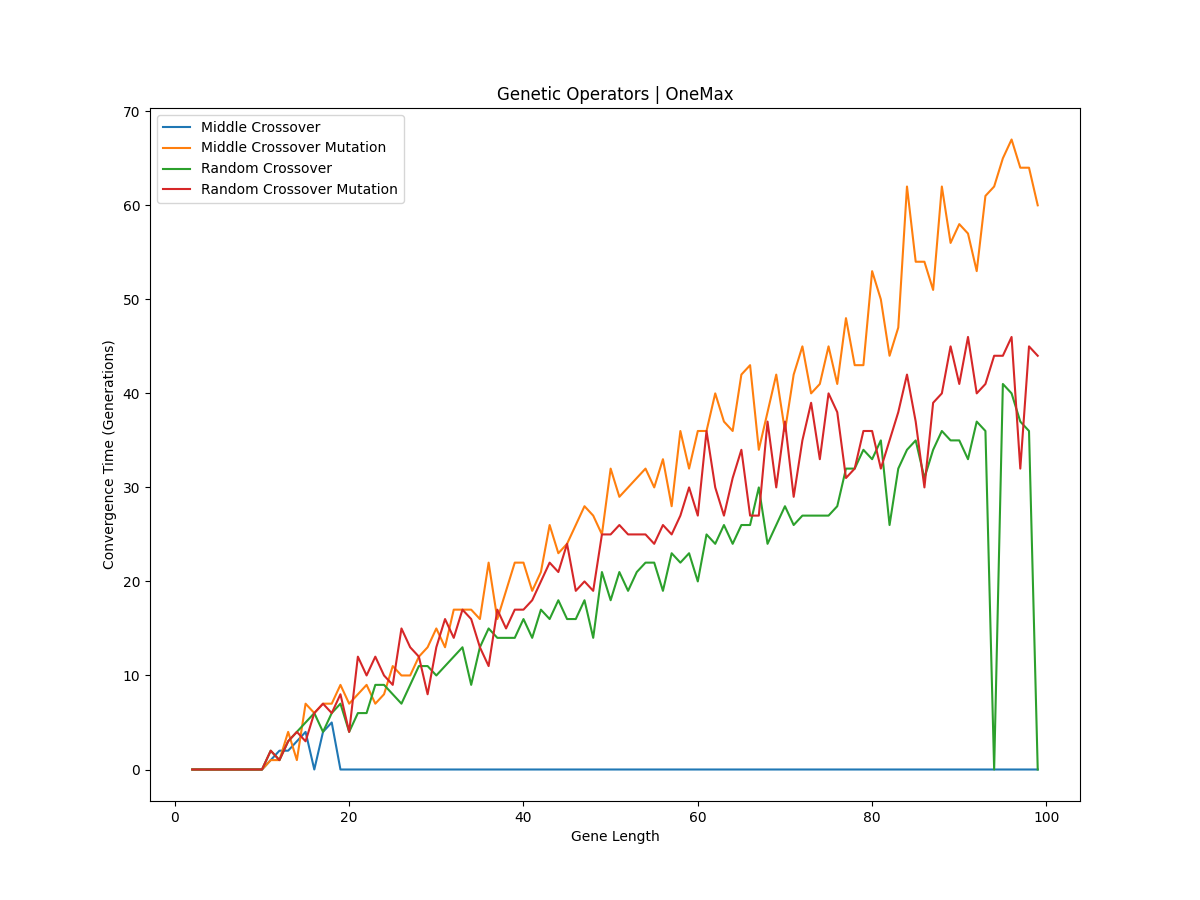
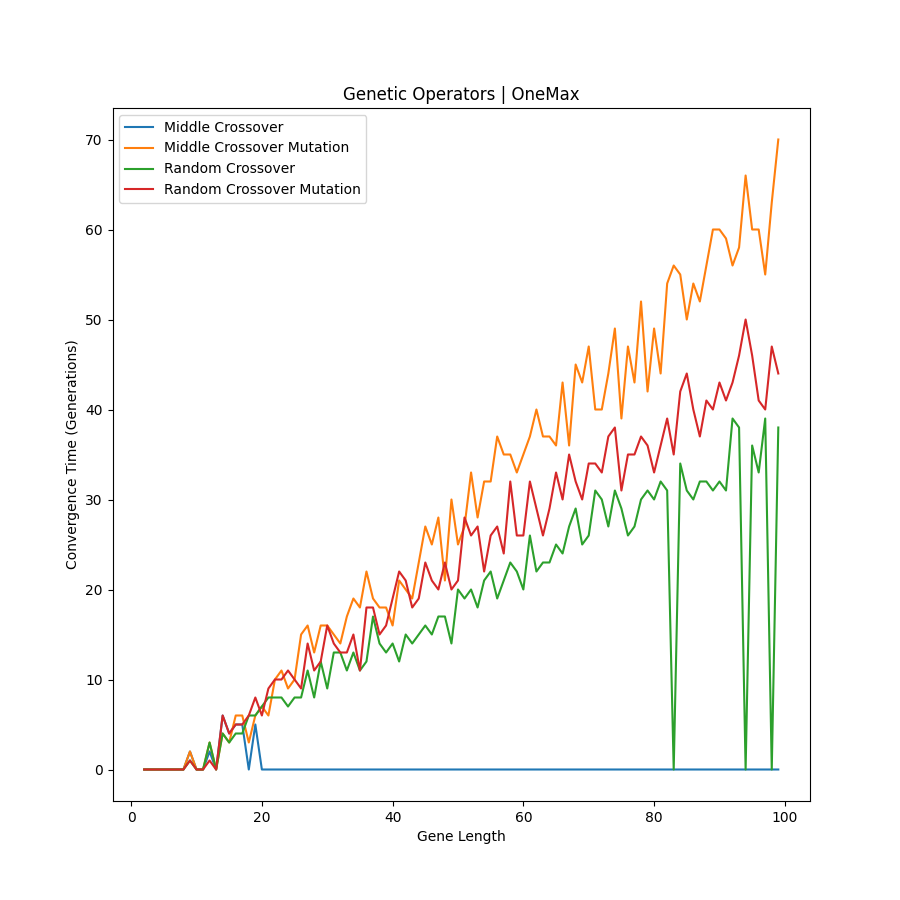
finished...

diff --git a/utils/generate_charts.py b/utils/generate_charts.py
@@ -4,7 +4,7 @@ from constants import MINIMUM_GENE_LENGTH, MAXIMUM_GENE_LENGTH, PROJECT_DIRECTOR
 FIGURE_PATH = PROJECT_DIRECTORY / 'convergence plots' / f'{MINIMUM_GENE_LENGTH}-{MAXIMUM_GENE_LENGTH} Gene Length'
 
 def generate_charts(genetic_operators_dict):
-        plt.figure(figsize=(12, 9))
+        plt.figure(figsize=(9, 9))
         
         for operator, information_dict in genetic_operators_dict.items():
                 plt.plot(information_dict['gene_lengths_to_convergences'].keys(), 
